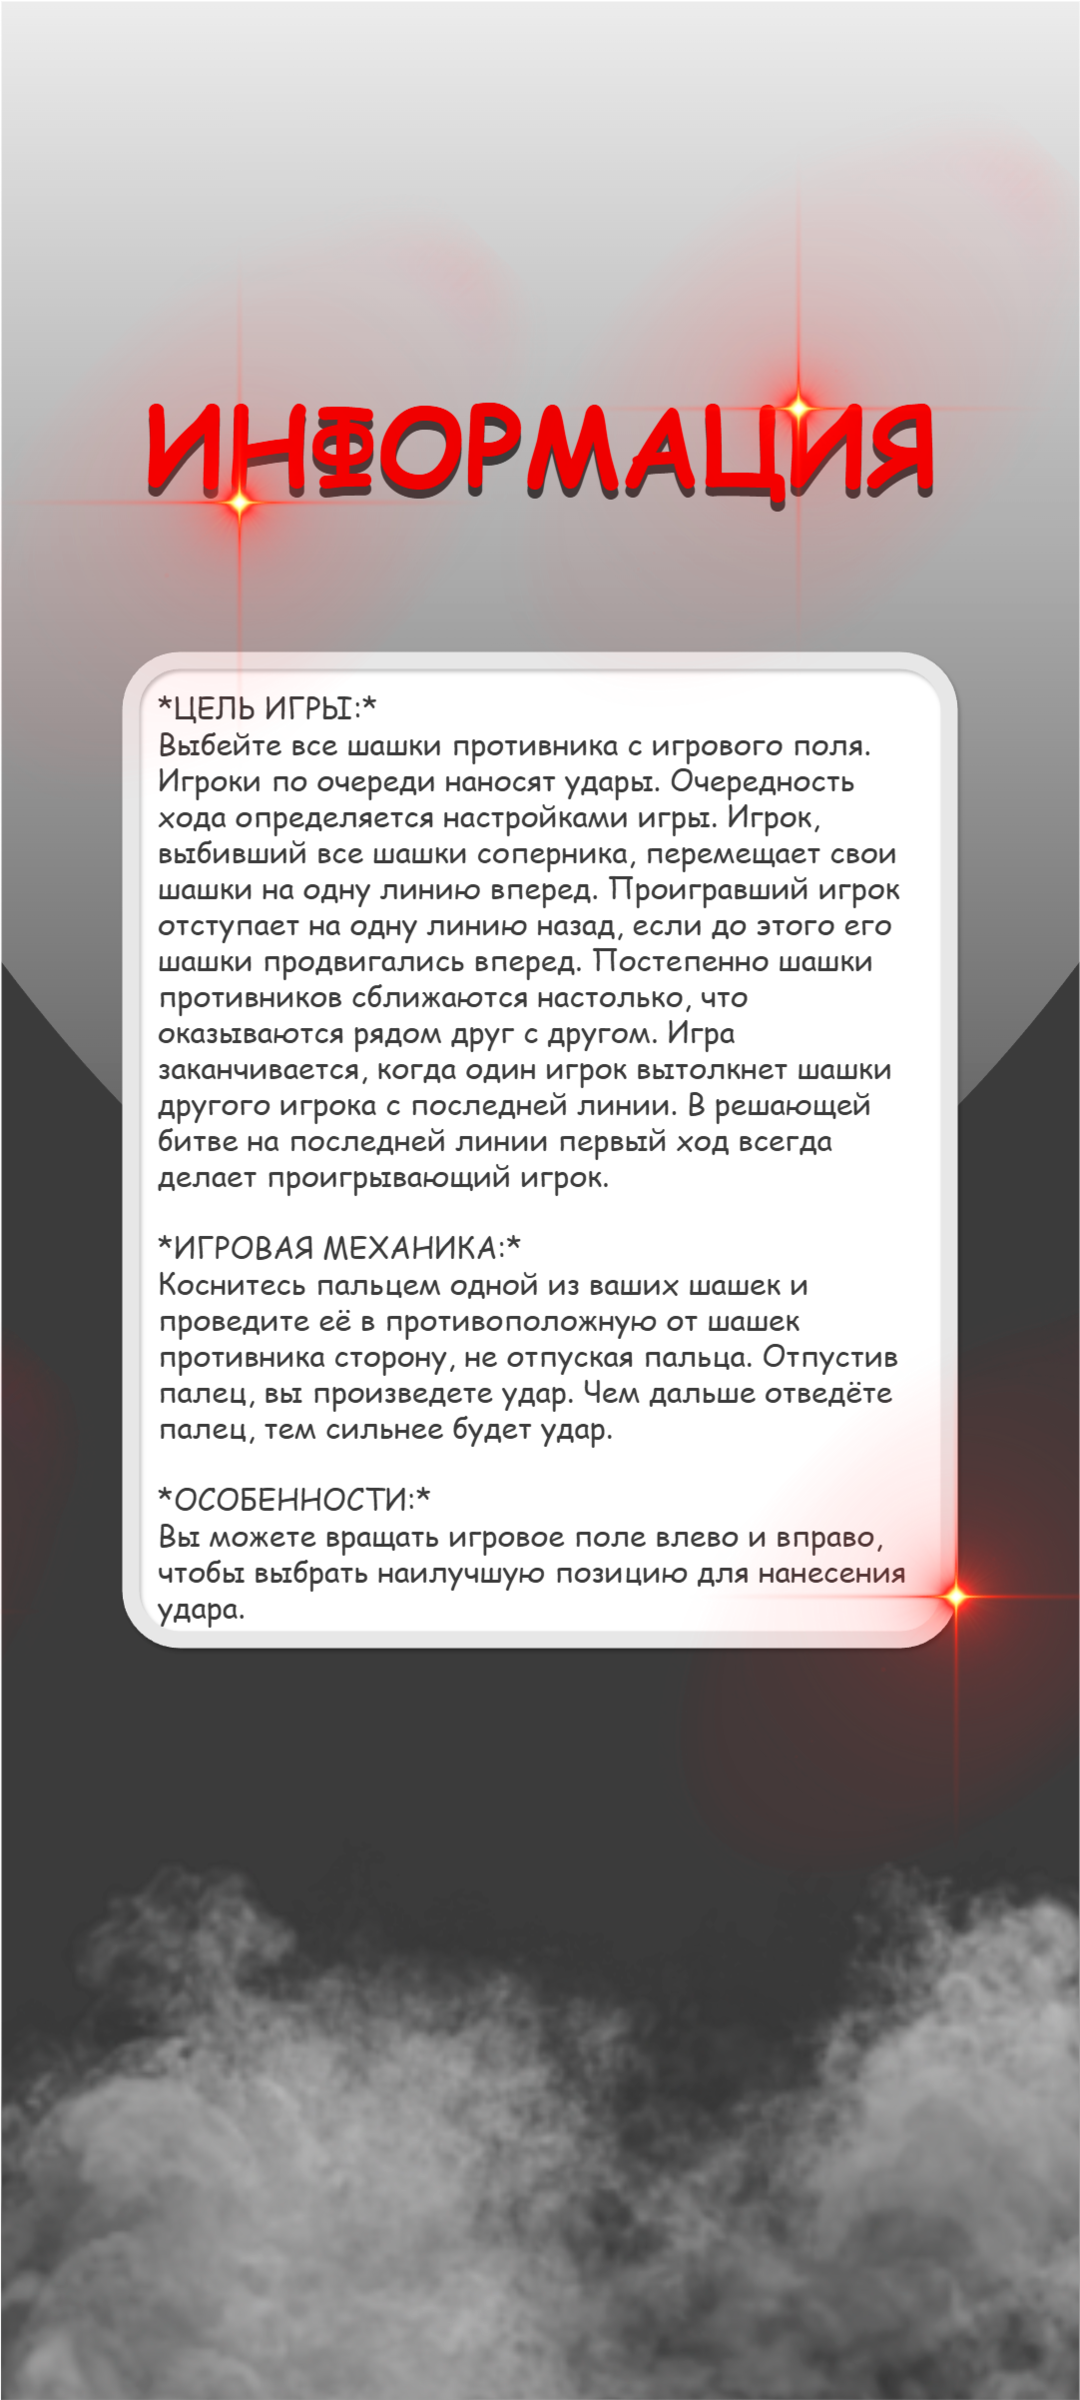
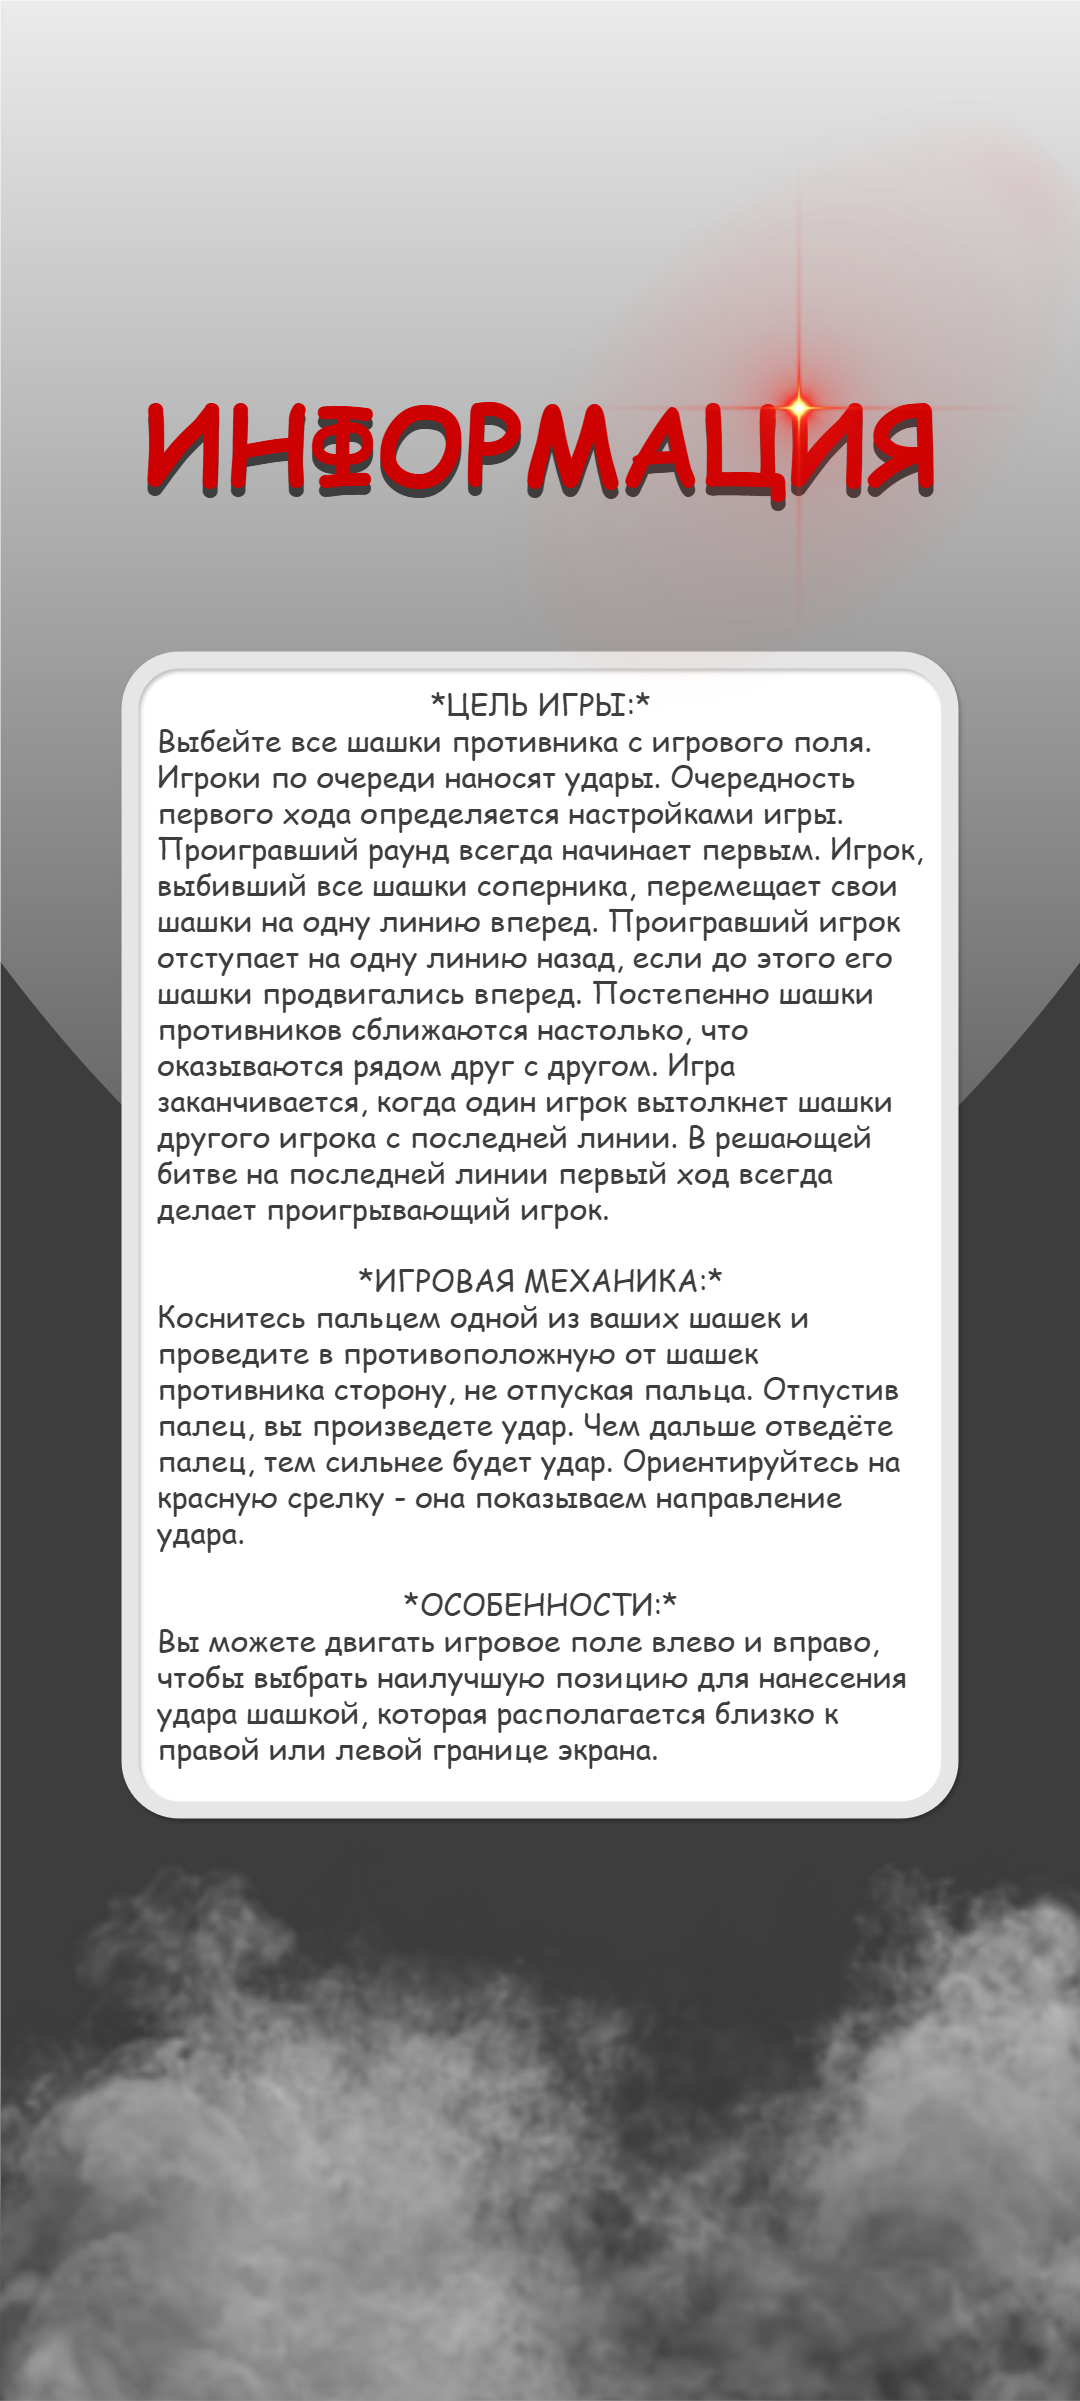
новые файлы с версией 1 0 0

Changed region(s): [[0.0917, 0.1562, 1.0, 0.7812]]

diff --git a/index.html b/index.html
@@ -94,6 +94,38 @@
             position: relative;
         }
 
+        #screen_score {
+            background: url('assets/images/Screen_score.png') no-repeat center center;
+            background-size: cover;
+            position: relative;
+        }
+
+        /* ========== ВЕРСИЯ ИГРЫ ========== */
+        .game-version {
+            position: fixed;
+            top: 15px;
+            right: 15px;
+            color: #8B0000;
+            font-size: 40px;
+            font-family: Arial, sans-serif;
+            text-shadow: 1px 1px 1px rgba(0,0,0,0.5);
+            z-index: 1000;
+            pointer-events: none;
+        }
+
+        .info-version {
+            position: absolute;
+            top: 550px;
+            left: 50%;
+            transform: translateX(-50%);
+            color: #8B0000;
+            font-size: 40px;
+            font-family: Arial, sans-serif;
+            text-shadow: 1px 1px 1px rgba(0,0,0,0.5);
+            text-align: center;
+            white-space: nowrap;
+        }
+
         /* ========== ЭКРАН НАСТРОЕК ========== */
         .choice-image {
             width: 600px;
@@ -162,19 +194,25 @@
             gap: 15px;
         }
 
-        .info-btn {
+        .info-buttons {
             position: absolute;
             left: 50%;
             transform: translateX(-50%);
+            bottom: 550px;
+            display: flex;
+            gap: 120px;
+        }
+
+        .info-btn {
             cursor: pointer;
             transition: transform 0.2s;
             width: 100px;
             height: auto;
-            bottom: 550px;
+            display: block;
         }
 
         .info-btn:active {
-            transform: translateX(-50%) scale(0.9);
+            transform: scale(0.9);
         }
 
         .fight-btn {
@@ -352,11 +390,63 @@
         .final-btn:active {
             transform: translateX(-50%) scale(0.9);
         }
+
+        /* ========== ЭКРАН СТАТИСТИКИ ========== */
+        .score-content {
+            position: absolute;
+            top: 48%;
+            left: 50%;
+            transform: translate(-50%, -50%);
+            width: 900px;
+            text-align: center;
+        }
+
+        .stats-list {
+            padding: 40px;
+            margin-bottom: 50px;
+        }
+
+        .stat-row {
+            display: flex;
+            justify-content: space-between;
+            align-items: baseline;
+            padding: 30px 20px;
+        }
+
+        .stat-label {
+            font-size: 65px;
+            color: #444444;
+            text-shadow: 2px 2px 4px black;
+        }
+
+        .stat-value {
+            font-size: 65px;
+            font-weight: bold;
+            color: #ff0000;
+            text-shadow: 2px 2px 4px black;
+        }
+
+        .score-menu-btn {
+            width: 500px;
+            height: auto;
+            cursor: pointer;
+            transition: transform 0.2s;
+            position: absolute;
+            bottom: 300px;
+            left: 50%;
+            transform: translateX(-50%);
+        }
+
+        .score-menu-btn:active {
+            transform: translateX(-50%) scale(0.95);
+        }
     </style>
 </head>
 <body>
     <div id="game-container">
-        <div id="screen_start" class="screen active"></div>
+        <div id="screen_start" class="screen active">
+            <div class="game-version" id="game-version-start"></div>
+        </div>
 
         <div id="screen_settings" class="screen">
             <div class="block-field">
@@ -387,7 +477,11 @@
                 <img src="assets/images/Button_right_3_2.png" alt="Вправо" class="arrow-btn" id="btn-sound-right">
             </div>
 
-            <img src="assets/images/button_info.png" alt="Информация" class="info-btn" id="btn-info">
+            <div class="info-buttons">
+                <img src="assets/images/Button_info.png" alt="Информация" class="info-btn" id="btn-info">
+                <img src="assets/images/Button_score.png" alt="Статистика" class="info-btn" id="btn-to-score">
+            </div>
+
             <img src="assets/images/Button_to_fight.png" alt="Сражаться" class="fight-btn" id="btn-to-fight">
         </div>
 
@@ -435,11 +529,51 @@
         </div>
 
         <div id="screen_info" class="screen">
+            <div class="info-version" id="game-version-info"></div>
             <img src="assets/images/Button_to_menu_4.png" alt="В меню" class="final-btn" id="btn-info-to-menu">
+        </div>
+
+        <div id="screen_score" class="screen">
+            <div class="score-content">
+                <div class="stats-list">
+                    <div class="stat-row">
+                        <span class="stat-label">Всего игр</span>
+                        <span class="stat-value" id="stat-total">0</span>
+                    </div>
+                    <div class="stat-row">
+                        <span class="stat-label">Побед</span>
+                        <span class="stat-value" id="stat-wins">0</span>
+                    </div>
+                    <div class="stat-row">
+                        <span class="stat-label">Поражений</span>
+                        <span class="stat-value" id="stat-losses">0</span>
+                    </div>
+                    <div class="stat-row">
+                        <span class="stat-label">Процент побед</span>
+                        <span class="stat-value" id="stat-percent">0%</span>
+                    </div>
+                </div>
+            </div>
+            <img src="assets/images/Button_to_menu_1.png" alt="В меню" class="score-menu-btn" id="btn-score-to-menu">
         </div>
     </div>
 
     <script>
+        // ========== ВЕРСИЯ ИГРЫ ==========
+        const GAME_VERSION = "1.0.0";  // Здесь меняйте версию
+
+        // Установка версии на страницах
+        function setGameVersions() {
+            const versionStart = document.getElementById('game-version-start');
+            const versionInfo = document.getElementById('game-version-info');
+            if (versionStart) {
+                versionStart.textContent = `v${GAME_VERSION}`;
+            }
+            if (versionInfo) {
+                versionInfo.textContent = `Версия: ${GAME_VERSION}`;
+            }
+        }
+
         // ========== ПЕРЕКЛЮЧЕНИЕ ЭКРАНОВ ==========
         function switchScreen(screenId) {
             if (screenId !== 'screen_game') {
@@ -462,10 +596,50 @@
         }
 
         window.addEventListener('load', () => {
+            setGameVersions();
             setTimeout(() => {
                 switchScreen('screen_settings');
             }, 3000);
         });
+
+        // ========== ИСТОРИЯ ИГР (СТАТИСТИКА) ==========
+        const STATS_KEY = 'chapaev_stats';
+
+        function getStats() {
+            const saved = localStorage.getItem(STATS_KEY);
+            if (saved) {
+                return JSON.parse(saved);
+            }
+            return { total: 0, wins: 0, losses: 0 };
+        }
+
+        function saveStats(stats) {
+            localStorage.setItem(STATS_KEY, JSON.stringify(stats));
+        }
+
+        function addGameResult(isWin) {
+            const stats = getStats();
+            stats.total++;
+            if (isWin) {
+                stats.wins++;
+            } else {
+                stats.losses++;
+            }
+            saveStats(stats);
+        }
+
+        function updateStatsDisplay() {
+            const stats = getStats();
+            document.getElementById('stat-total').textContent = stats.total;
+            document.getElementById('stat-wins').textContent = stats.wins;
+            document.getElementById('stat-losses').textContent = stats.losses;
+            
+            let percent = 0;
+            if (stats.total > 0) {
+                percent = Math.round((stats.wins / stats.total) * 100);
+            }
+            document.getElementById('stat-percent').textContent = percent + '%';
+        }
 
         // ========== ЗВУКИ ==========
         let isSoundEnabled = true;
@@ -564,6 +738,12 @@
             switchScreen('screen_info');
         });
 
+        document.getElementById('btn-to-score').addEventListener('click', () => {
+            playSound('OpenNewFormSound.mp3');
+            updateStatsDisplay();
+            switchScreen('screen_score');
+        });
+
         // ========== ЛОГИРОВАНИЕ ==========
         const LOG_URL = 'https://script.google.com/macros/s/AKfycbylFYeOaTzjUX9STu_X-EGu8scGCGC7E6sDCSf6xgzKiGkJssr5N56Lre08E6yRMZv_-g/exec';
 
@@ -648,8 +828,7 @@
         let isPhysicsRunning = false;
 
         // ----- СДВИГ ПОЛЯ -----
-        let currentScrollPosition = 'center'; // 'left', 'center', 'right'
-        const SCROLL_OFFSET = 350; // Величина сдвига в пикселях
+        let currentScrollPosition = 'center';
 
         function updateScrollPosition() {
             const scrollContainer = document.getElementById('game-scroll-container');
@@ -672,7 +851,6 @@
             }
             
             scrollContainer.style.transform = `translateX(${translateX}px)`;
-            console.log('Сдвиг поля:', currentScrollPosition, translateX);
         }
 
         class PhysicsStone {
@@ -874,6 +1052,9 @@
                         currentWhiteY = Math.max(START_WHITE_Y, Math.min(MAX_WHITE_Y, currentWhiteY));
                         
                         if (redLines >= 7) {
+                            if (isComputerMode) {
+                                addGameResult(true);
+                            }
                             playSound('WinSound.mp3');
                             setTimeout(() => switchScreen('screen_final_win'), 2000);
                             return;
@@ -904,6 +1085,9 @@
                         currentWhiteY = Math.max(START_WHITE_Y, Math.min(MAX_WHITE_Y, currentWhiteY));
                         
                         if (whiteLines >= 7) {
+                            if (isComputerMode) {
+                                addGameResult(false);
+                            }
                             playSound('LoseSound.mp3');
                             setTimeout(() => switchScreen('screen_final_win'), 2000);
                             return;
@@ -1098,6 +1282,14 @@
                         
                         let score = (redDead * 100) - (whiteDead * 50);
                         if (redDead === 0) score -= 30;
+                        
+                        if (whiteStones.length === 1) {
+                            if (redDead === 0) {
+                                score = -10000;
+                            } else {
+                                score = redDead * 1000;
+                            }
+                        }
                         
                         if (score > bestScore) {
                             bestScore = score;
@@ -1445,19 +1637,27 @@
             stopPhysics();
             switchScreen('screen_settings');
         });
+        
         document.getElementById('btn-win-to-menu').addEventListener('click', () => {
             playSound('OpenNewFormSound.mp3');
             stopPhysics();
             switchScreen('screen_settings');
         });
+        
         document.getElementById('btn-lost-to-menu').addEventListener('click', () => {
             playSound('OpenNewFormSound.mp3');
             stopPhysics();
             switchScreen('screen_settings');
         });
+        
         document.getElementById('btn-info-to-menu').addEventListener('click', () => {
             playSound('OpenNewFormSound.mp3');
             stopPhysics();
+            switchScreen('screen_settings');
+        });
+        
+        document.getElementById('btn-score-to-menu').addEventListener('click', () => {
+            playSound('OpenNewFormSound.mp3');
             switchScreen('screen_settings');
         });
         
